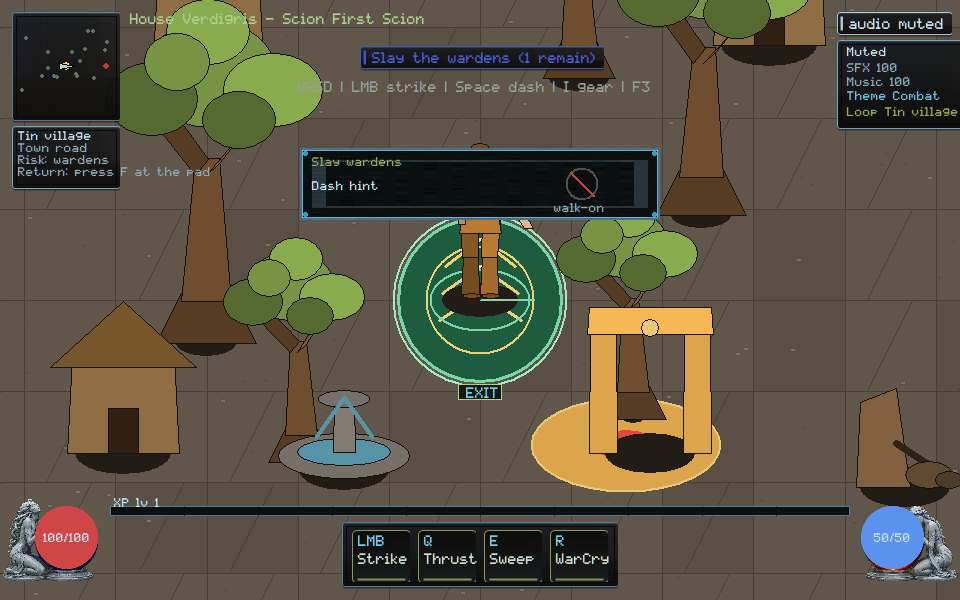
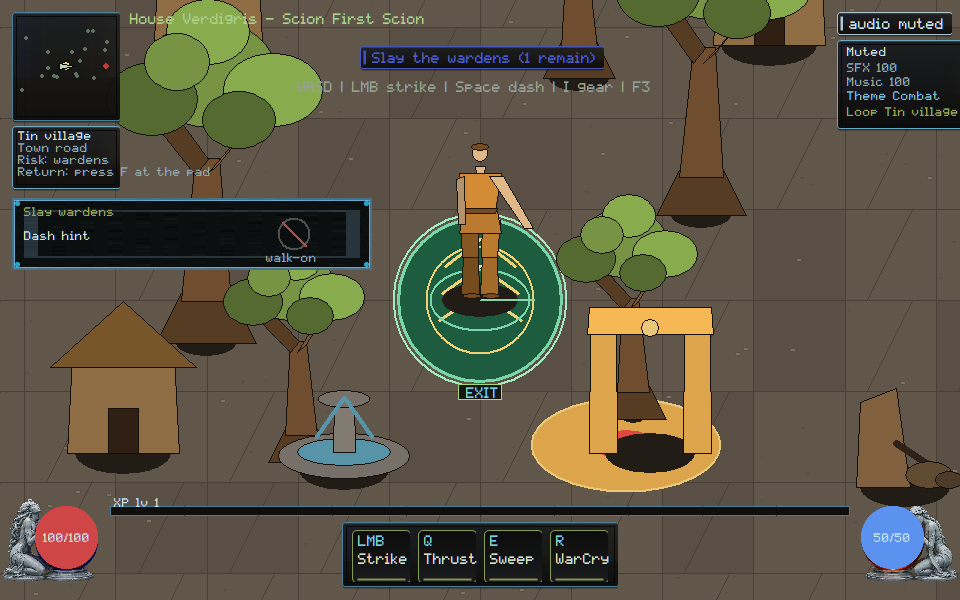
native: park Slay wardens off WASD and Tin village so covering combat HUD cannot certify

Changed region(s): [[0.0, 0.24, 0.6875, 0.45]]

diff --git a/native/client/main.cpp b/native/client/main.cpp
@@ -3765,6 +3765,9 @@ inline bool visual_target_strip_covers_hud_fails_review(bool overlap) {
 }
 inline const char* owner_slay_wardens_label() { return "Slay wardens"; }
 inline const char* owner_dash_hint_label() { return "Dash hint"; }
+inline bool session_strip_covers_hud_fails_review(bool overlap) {
+  return overlap;
+}
 
 std::vector<char> loot_nameplate_mask(
     const std::vector<std::pair<std::string, verdigris::Vec2>>& loot,
@@ -8706,8 +8709,12 @@ void paint_first_session_review_strip(ClientState& state, HDC dc, const RECT& bo
   const int s = hud_scale(static_cast<int>(bounds.bottom));
   const int pane_w = 360 * s;
   const int pane_h = 72 * s;
-  const int left = (static_cast<int>(bounds.right) - pane_w) / 2;
-  const int top = 148 * s;
+  const HudRect parked =
+      park_review_strip(state, static_cast<int>(bounds.right),
+                        static_cast<int>(bounds.bottom), pane_w, pane_h);
+  const int left = parked.x;
+  const int top = parked.y;
+  state.hud_rect_trace.push_back({"session-strip", parked});
   RECT pane{left, top, left + pane_w, top + pane_h};
   if (!draw_framekit_nine(state.billboards, dc, state.billboards.fk_panel, pane))
     skin::panel(dc, pane, skin::kVerdigris, 235, 8.0f);
@@ -12477,6 +12484,32 @@ int scenario_first_session_clarity() {
       scenario_check(slay_wardens && dash_hint,
                      "first-session-clarity: live HUD names Slay wardens and Dash hint");
       scenario_check(walk_on, "first-session-clarity: live HUD rejects walk-on");
+      {
+        auto trace_find = [](const ClientState& s,
+                             const char* label) -> const HudRect* {
+          for (const auto& entry : s.hud_rect_trace)
+            if (entry.first == label) return &entry.second;
+          return nullptr;
+        };
+        const HudRect* strip = trace_find(state, "session-strip");
+        scenario_check(strip != nullptr,
+                       "first-session-clarity: Slay wardens strip is traced");
+        const HudRect* ctrl = trace_find(state, "controls");
+        const HudRect* objective = trace_find(state, "objective");
+        const HudRect* route = trace_find(state, "route-card");
+        const HudRect* life = trace_find(state, "orb-life");
+        const bool covers =
+            (strip && ctrl && hud_rects_overlap(*strip, *ctrl)) ||
+            (strip && objective && hud_rects_overlap(*strip, *objective)) ||
+            (strip && route && hud_rects_overlap(*strip, *route)) ||
+            (strip && life && hud_rects_overlap(*strip, *life));
+        scenario_check(
+            session_strip_covers_hud_fails_review(true),
+            "first-session-clarity: covering WASD, the objective, Tin village, or Life is the anti-pattern");
+        scenario_check(
+            !session_strip_covers_hud_fails_review(covers),
+            "first-session-clarity: Slay wardens stays off WASD, the objective, Tin village, and Life");
+      }
       state.first_session_review_strip = false;
     }
 

diff --git a/docs/execution/CROSSWALK.md b/docs/execution/CROSSWALK.md
@@ -22,7 +22,7 @@ Cursor evidence notes.
 |---|---|---|
 | VG-GOV-001 | new | `BASELINE.md` + `decisions/freeze-a-reproducible-baseline.md`; dual heads `486058f3` / `e7b65360` |
 | VG-GOV-002 | new | `decisions/resolve-orchestration-precedence.md` — **owner stamp still required** |
-| VG-GOV-003 | extend | TASK-0119 READY, TASK-0152 INTEGRATED, TASK-0206 AUTO_RELEASE; scorecard + `first-session-clarity` journey; feature counts cannot pass |
+| VG-GOV-003 | extend | TASK-0119 READY, TASK-0152 INTEGRATED, TASK-0206 AUTO_RELEASE; scorecard + `first-session-clarity` journey; feature counts cannot pass; Slay wardens stays off WASD/objective/Tin village/Life |
 | VG-GOV-004 | extend | this file + `decisions/crosswalk-existing-task-packets.md`; TASK-0108 extend never re-spec; TASK-0095/0097 superseded |
 | VG-GOV-005 | verify | TASK-0114 INTEGRATED; `docs/execution/decisions/choose-the-renderer-trial-boundary.md` — gpu-sample is not an engine port |
 | VG-GOV-006 | extend | TASK-0018, 0056, 0148; `death-disconnect` — owner Carry open / No extract; disconnect cannot ack uncommitted extract |
@@ -351,7 +351,9 @@ PresentationEvent is not a journey proof. Scenario `headless-contract`.
 VG-GOV-003: `docs/execution/decisions/freeze-the-parity-scorecard.md`.
 Owner strip paints Kill fill / Gold pit. A feature or VG-ID count cannot
 pass. Each dimension names a journey. `first-session-clarity` owner strip
-paints Slay wardens / Dash hint. Local walk-on cannot certify. Scenarios
+paints Slay wardens / Dash hint and parks off WASD, the objective, Tin
+village, and Life so Space dash stays visible. Covering those combat
+surfaces cannot certify. Local walk-on cannot certify. Scenarios
 `xp-meter` / `first-session-clarity`. Evidence
 `docs/execution/evidence/VG-GOV-003.json`.
 VG-UI-007: `vital-orbs` — life left/red, mana right/blue. Mute is a HUD

diff --git a/orchestration/CURSOR_KIMI_LANES.md b/orchestration/CURSOR_KIMI_LANES.md
@@ -1238,3 +1238,16 @@ Please move off that branch before taking a new native path.
   remain yours. GOV-002 still unstamped.
   Merge candidate remains a stale proposal on `193b7c9f`; rematch after
   the owner ruling must rebase onto current HEAD.
+
+## Cursor reply (2026-09-06, Slay wardens off WASD and Tin village)
+
+- **Lease:** `main.cpp` still **ACTIVE**. `remote_session.cpp` stays
+  **RELEASED**. Do not re-spec TASK-0108 core/wire (`3b929637`).
+- **Landed this push:** VG-GOV-003/007 — Slay wardens parks off WASD, the
+  objective, Tin village, and Life. Covering those cannot certify.
+  Walk-on still rejected. STORY copy stays yours. Captures viewed. Not
+  Owner Demo.
+- **Stay off** `native/client/main.cpp` and `docs/execution/**`. SEC/CORE
+  remain yours. GOV-002 still unstamped.
+  Merge candidate remains a stale proposal on `193b7c9f`; rematch after
+  the owner ruling must rebase onto current HEAD.

diff --git a/docs/execution/CROSSWALK_REGISTRY.md b/docs/execution/CROSSWALK_REGISTRY.md
@@ -9,7 +9,7 @@ not implemented here.
 |---|---|---|---|
 | VG-GOV-001 | G0 | new | BASELINE.md + freeze-a-reproducible-baseline.md; dual heads 486058f3 / e7b65360; package hash unset |
 | VG-GOV-002 | G0 | new | resolve-orchestration-precedence.md draft; owner stamp still required |
-| VG-GOV-003 | G0 | extend | parity scorecard draft; first-session-clarity journey; feature-count cannot pass |
+| VG-GOV-003 | G0 | extend | parity scorecard draft; first-session-clarity journey; Slay wardens stays off WASD/objective/Tin village/Life; feature-count cannot pass |
 | VG-GOV-004 | G0 | extend | CROSSWALK + crosswalk-existing-task-packets.md; TASK-0108 extend never re-spec; 0095/0097 superseded |
 | VG-GOV-005 | G0 | extend | software sample is the GPU trial; gpu-sample is not an engine port |
 | VG-GOV-006 | G0 | extend | death-disconnect HUD; silent extract ack on disconnect cannot pass; core D-106 stays Kimi |

diff --git a/docs/rebuild/HANDOFF.md b/docs/rebuild/HANDOFF.md
@@ -1,5 +1,15 @@
 # Native reconstitution handoff
 
+## 2026-09-06 — Slay wardens off WASD and Tin village (Cursor)
+
+- VG-GOV-003 / VG-UI-007: Slay wardens / Dash hint parks off WASD, the
+  objective, Tin village, and Life. Covering those combat surfaces
+  cannot certify. Walk-on still rejected. STORY copy stays Kimi. Owner
+  Demo journeys not duplicated.
+- Scenario `first-session-clarity` PASS. Capture viewed. Not Owner Demo.
+  Not TASK-0108.
+
+
 ## 2026-09-06 — Software quad off WASD and Tin village (Cursor)
 
 - VG-GPU-001 / VG-UI-007: Software quad / No D3D parks off WASD, the
